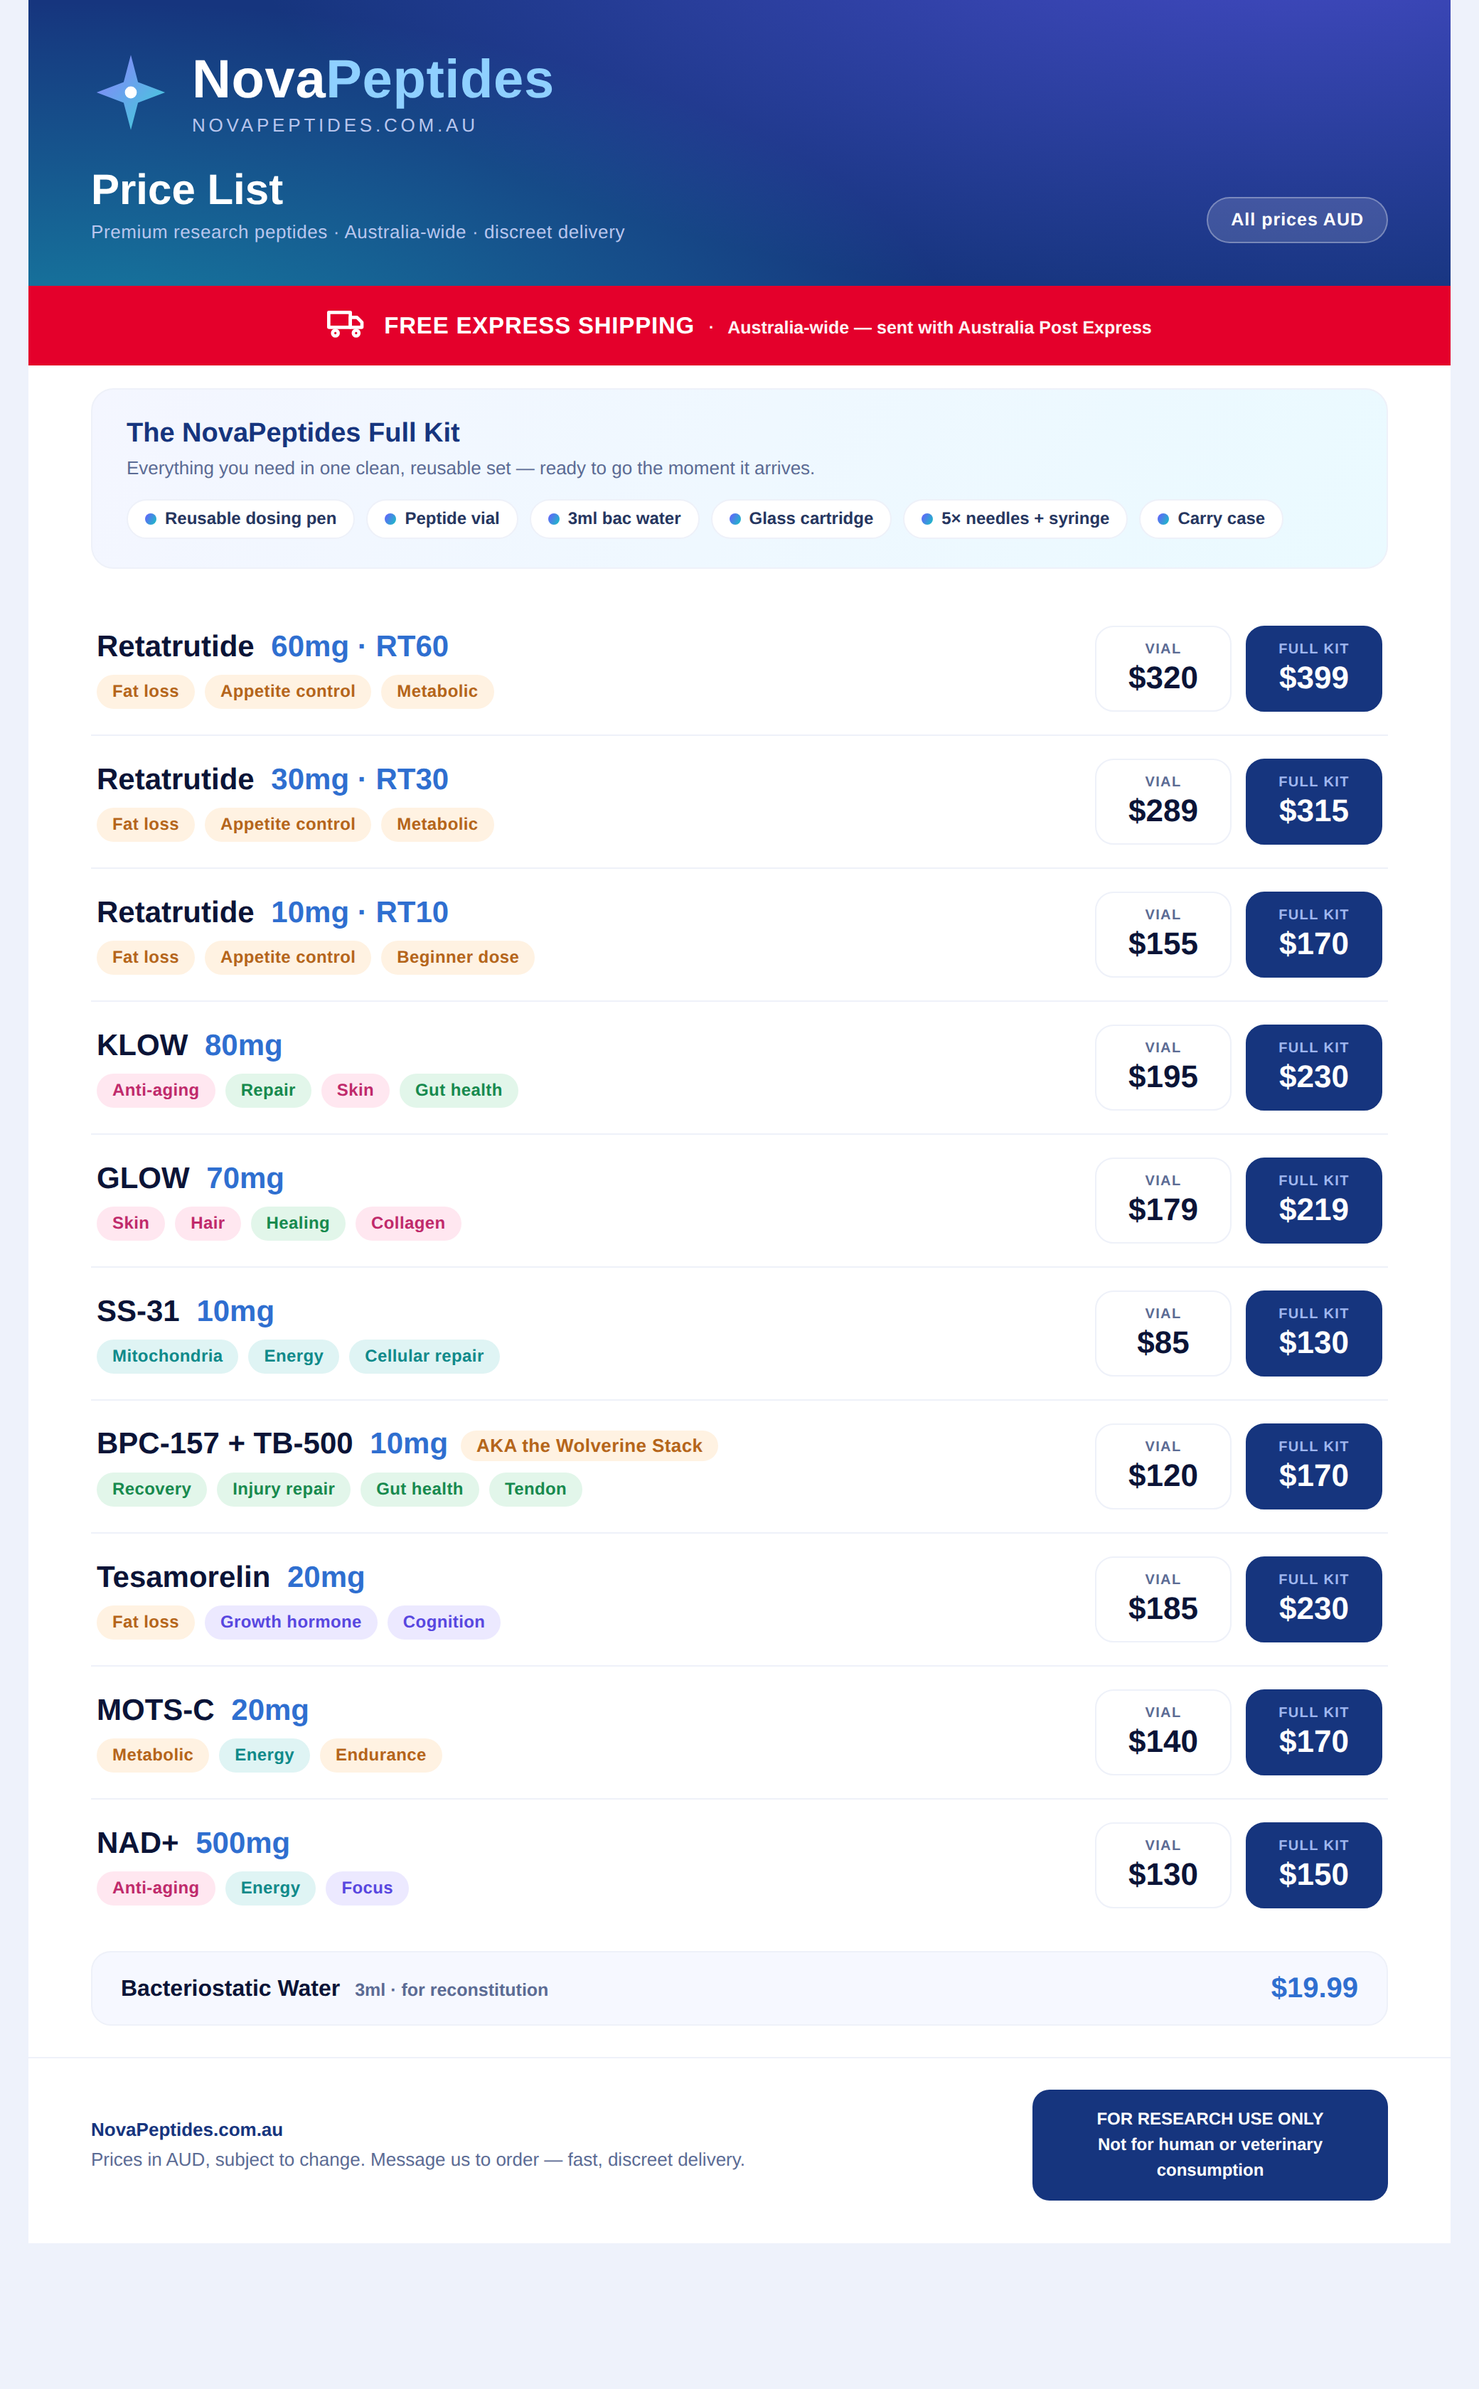
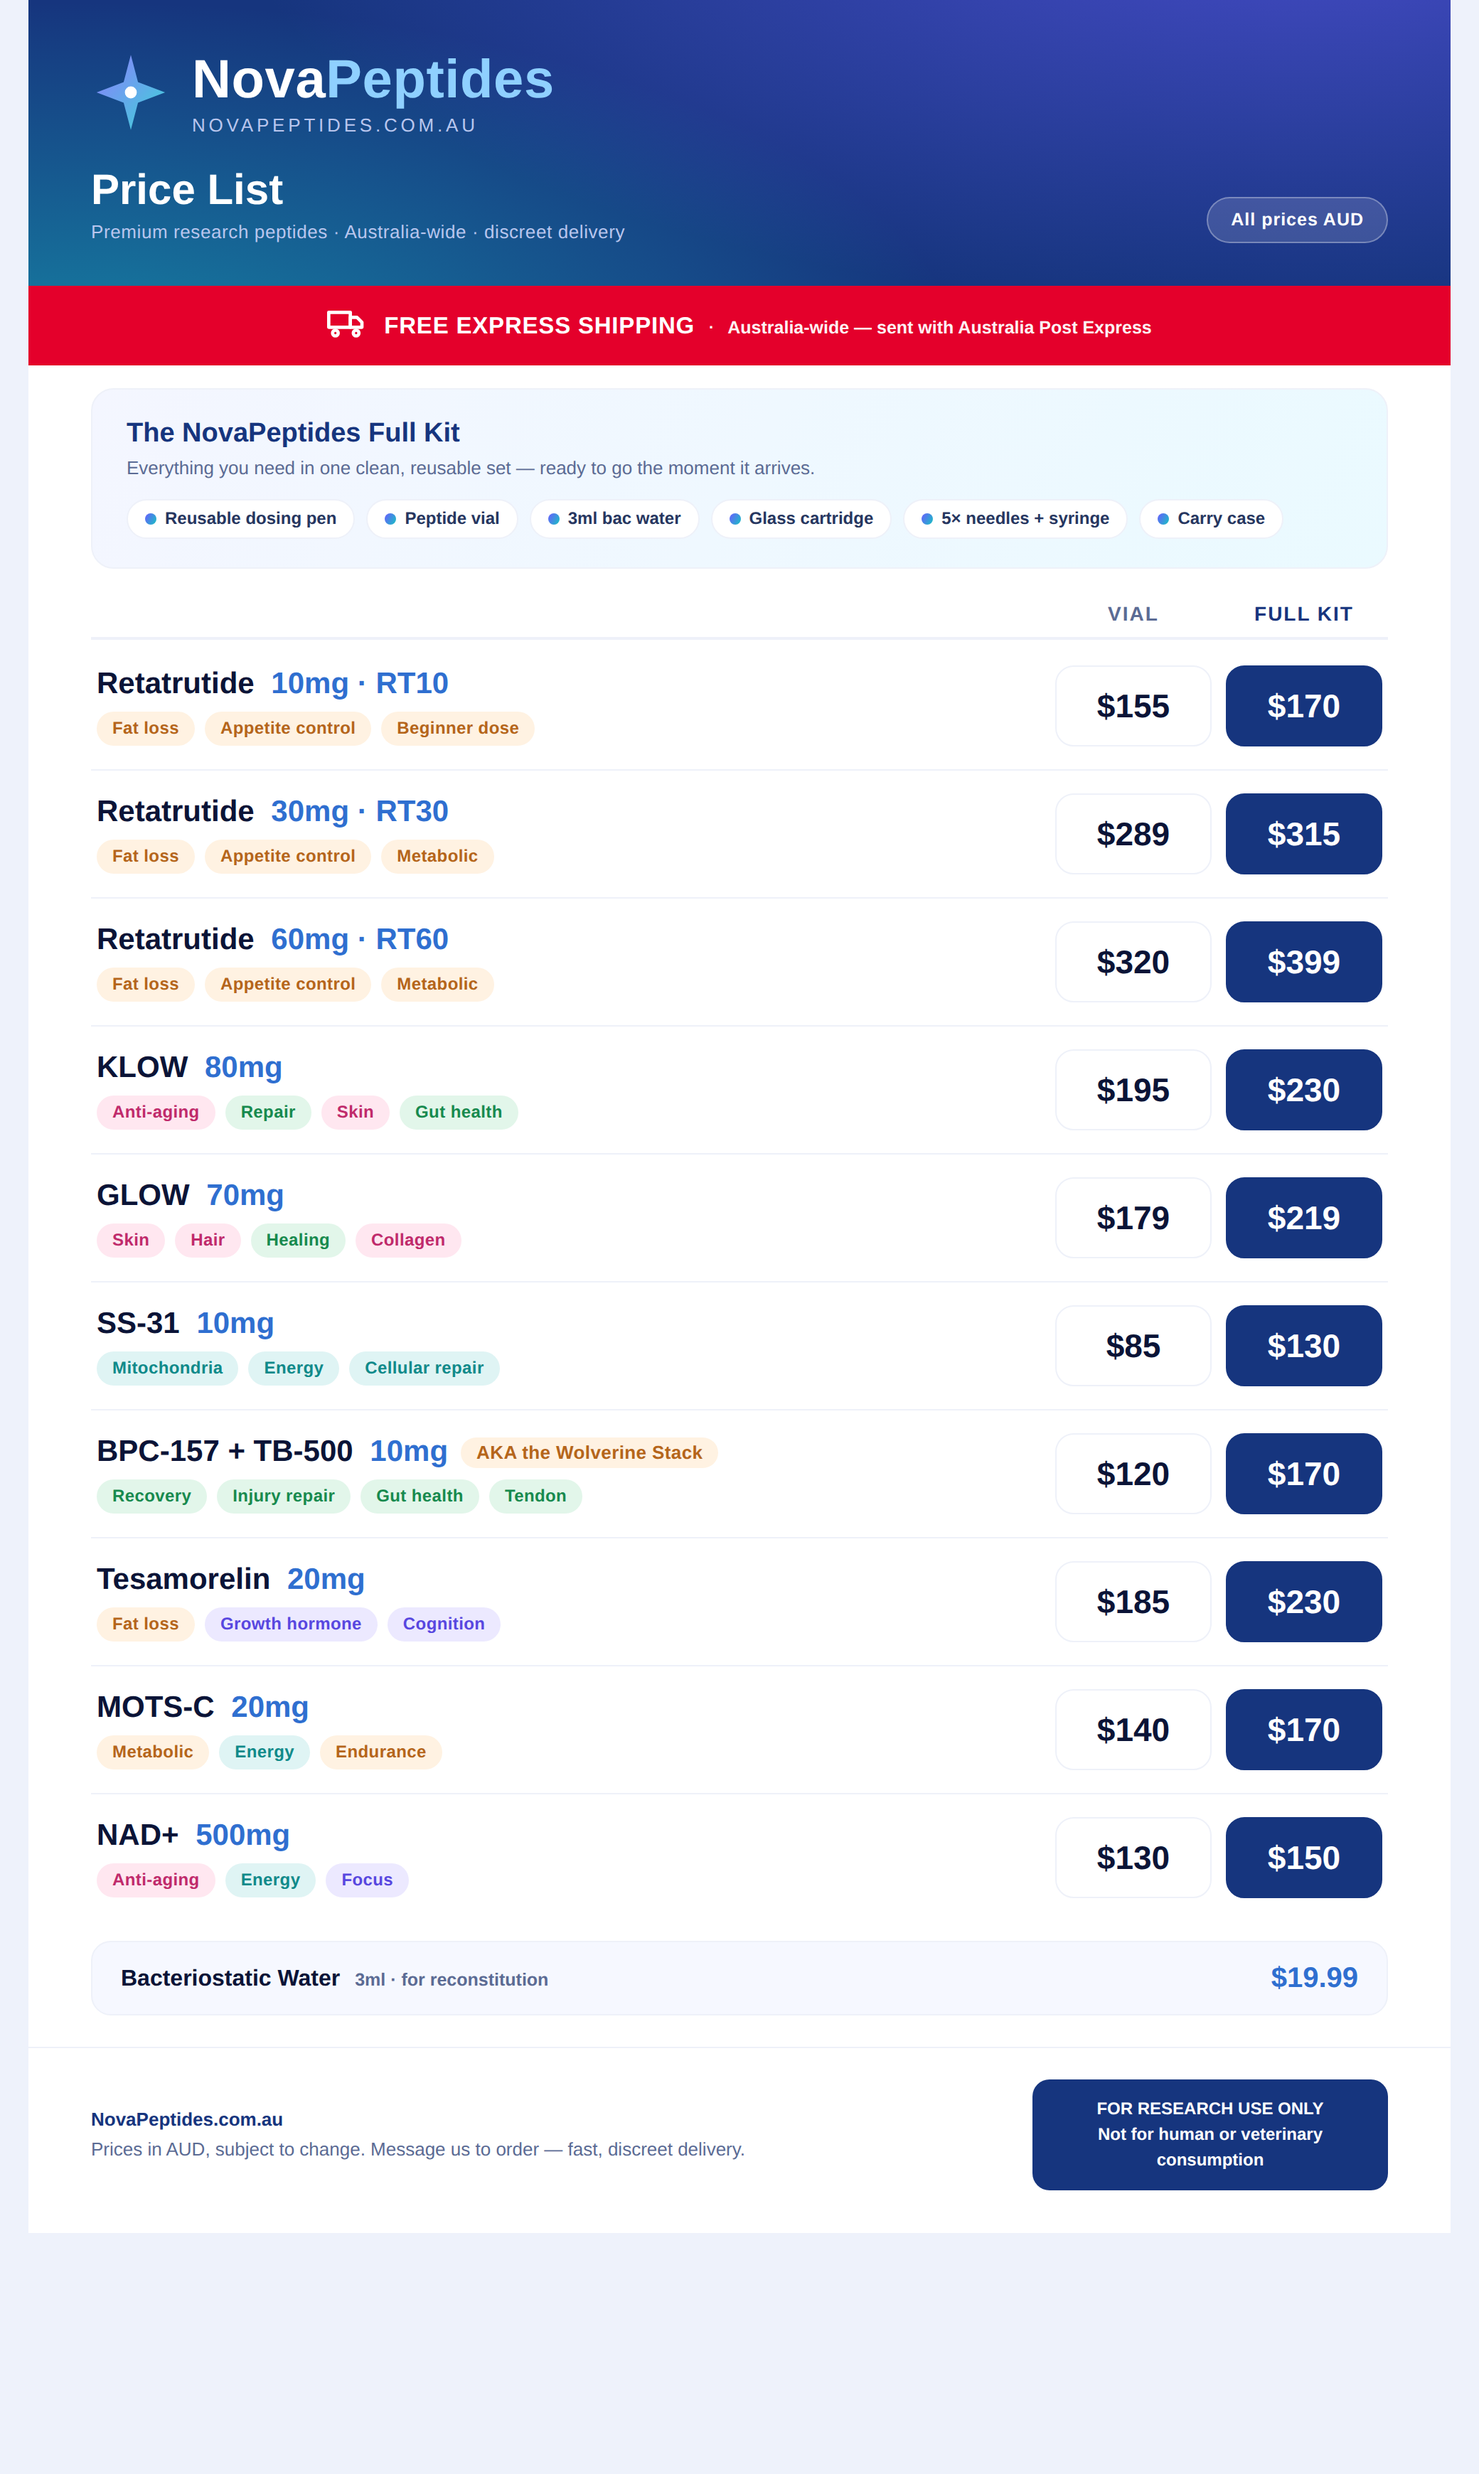
Price list: RT10-RT30-RT60 order, column headers (Vial/Full kit) at top
Reorder Retatrutide low-to-high; move vial/kit labels into clear larger column
headers aligned above the price columns; fix header class collision with kit band.

Claude-Session: https://claude.ai/code/session_011vwkpM9KQ6PKS1DsXGJwTK

diff --git a/pricing/price-list-v2.html b/pricing/price-list-v2.html
@@ -51,11 +51,14 @@
   .p-green{background:var(--greenB);color:var(--greenT)} .p-teal{background:var(--tealB);color:var(--tealT)}
   .p-ind{background:var(--indB);color:var(--indT)}
   .prices{flex:0 0 auto;display:flex;gap:10px}
-  .pbox{text-align:center;border-radius:13px;padding:10px 16px;min-width:96px;border:1px solid var(--line)}
-  .pbox .lb{font-size:10px;font-weight:800;text-transform:uppercase;letter-spacing:.7px;color:var(--mist)}
-  .pbox .pr{font-size:22px;font-weight:800;margin-top:2px;color:var(--ink)}
+  .pbox{text-align:center;border-radius:13px;padding:14px 16px;width:110px;border:1px solid var(--line)}
+  .pbox .pr{font-size:23px;font-weight:800;color:var(--ink)}
   .pbox.kit2{background:var(--navy);border-color:var(--navy)}
-  .pbox.kit2 .lb{color:#9fb6ef} .pbox.kit2 .pr{color:#fff}
+  .pbox.kit2 .pr{color:#fff}
+  .phead{display:flex;align-items:flex-end;padding:0 4px 8px;margin-bottom:2px;border-bottom:2px solid var(--line)}
+  .phead .sp{flex:1 1 auto}
+  .phead .hc{width:110px;text-align:center;font-size:14px;font-weight:800;text-transform:uppercase;letter-spacing:1px;color:var(--mist)}
+  .phead .hc.hk{color:var(--navy)}
 
   .bac{display:flex;align-items:center;justify-content:space-between;margin:6px 44px 0;background:#f6f8ff;border:1px solid var(--line);border-radius:14px;padding:14px 20px}
   .bac .n{font-size:16px;font-weight:800} .bac .n span{font-size:12.5px;color:var(--mist);font-weight:600;margin-left:6px}
@@ -99,45 +102,46 @@
     </div>
 
     <div class="list">
-      <div class="prow"><div class="pinfo"><div class="pname">Retatrutide <span class="mg">60mg &middot; RT60</span></div>
-        <div class="pills"><span class="pill2 p-amber">Fat loss</span><span class="pill2 p-amber">Appetite control</span><span class="pill2 p-amber">Metabolic</span></div></div>
-        <div class="prices"><div class="pbox"><div class="lb">Vial</div><div class="pr">$320</div></div><div class="pbox kit2"><div class="lb">Full kit</div><div class="pr">$399</div></div></div></div>
+      <div class="phead"><span class="sp"></span><div class="prices"><div class="hc">Vial</div><div class="hc hk">Full kit</div></div></div>
+      <div class="prow"><div class="pinfo"><div class="pname">Retatrutide <span class="mg">10mg &middot; RT10</span></div>
+        <div class="pills"><span class="pill2 p-amber">Fat loss</span><span class="pill2 p-amber">Appetite control</span><span class="pill2 p-amber">Beginner dose</span></div></div>
+        <div class="prices"><div class="pbox"><div class="pr">$155</div></div><div class="pbox kit2"><div class="pr">$170</div></div></div></div>
 
       <div class="prow"><div class="pinfo"><div class="pname">Retatrutide <span class="mg">30mg &middot; RT30</span></div>
         <div class="pills"><span class="pill2 p-amber">Fat loss</span><span class="pill2 p-amber">Appetite control</span><span class="pill2 p-amber">Metabolic</span></div></div>
-        <div class="prices"><div class="pbox"><div class="lb">Vial</div><div class="pr">$289</div></div><div class="pbox kit2"><div class="lb">Full kit</div><div class="pr">$315</div></div></div></div>
+        <div class="prices"><div class="pbox"><div class="pr">$289</div></div><div class="pbox kit2"><div class="pr">$315</div></div></div></div>
 
-      <div class="prow"><div class="pinfo"><div class="pname">Retatrutide <span class="mg">10mg &middot; RT10</span></div>
-        <div class="pills"><span class="pill2 p-amber">Fat loss</span><span class="pill2 p-amber">Appetite control</span><span class="pill2 p-amber">Beginner dose</span></div></div>
-        <div class="prices"><div class="pbox"><div class="lb">Vial</div><div class="pr">$155</div></div><div class="pbox kit2"><div class="lb">Full kit</div><div class="pr">$170</div></div></div></div>
+      <div class="prow"><div class="pinfo"><div class="pname">Retatrutide <span class="mg">60mg &middot; RT60</span></div>
+        <div class="pills"><span class="pill2 p-amber">Fat loss</span><span class="pill2 p-amber">Appetite control</span><span class="pill2 p-amber">Metabolic</span></div></div>
+        <div class="prices"><div class="pbox"><div class="pr">$320</div></div><div class="pbox kit2"><div class="pr">$399</div></div></div></div>
 
       <div class="prow"><div class="pinfo"><div class="pname">KLOW <span class="mg">80mg</span></div>
         <div class="pills"><span class="pill2 p-pink">Anti-aging</span><span class="pill2 p-green">Repair</span><span class="pill2 p-pink">Skin</span><span class="pill2 p-green">Gut health</span></div></div>
-        <div class="prices"><div class="pbox"><div class="lb">Vial</div><div class="pr">$195</div></div><div class="pbox kit2"><div class="lb">Full kit</div><div class="pr">$230</div></div></div></div>
+        <div class="prices"><div class="pbox"><div class="pr">$195</div></div><div class="pbox kit2"><div class="pr">$230</div></div></div></div>
 
       <div class="prow"><div class="pinfo"><div class="pname">GLOW <span class="mg">70mg</span></div>
         <div class="pills"><span class="pill2 p-pink">Skin</span><span class="pill2 p-pink">Hair</span><span class="pill2 p-green">Healing</span><span class="pill2 p-pink">Collagen</span></div></div>
-        <div class="prices"><div class="pbox"><div class="lb">Vial</div><div class="pr">$179</div></div><div class="pbox kit2"><div class="lb">Full kit</div><div class="pr">$219</div></div></div></div>
+        <div class="prices"><div class="pbox"><div class="pr">$179</div></div><div class="pbox kit2"><div class="pr">$219</div></div></div></div>
 
       <div class="prow"><div class="pinfo"><div class="pname">SS-31 <span class="mg">10mg</span></div>
         <div class="pills"><span class="pill2 p-teal">Mitochondria</span><span class="pill2 p-teal">Energy</span><span class="pill2 p-teal">Cellular repair</span></div></div>
-        <div class="prices"><div class="pbox"><div class="lb">Vial</div><div class="pr">$85</div></div><div class="pbox kit2"><div class="lb">Full kit</div><div class="pr">$130</div></div></div></div>
+        <div class="prices"><div class="pbox"><div class="pr">$85</div></div><div class="pbox kit2"><div class="pr">$130</div></div></div></div>
 
       <div class="prow"><div class="pinfo"><div class="pname">BPC-157 + TB-500 <span class="mg">10mg</span><span class="nick">AKA the Wolverine Stack</span></div>
         <div class="pills"><span class="pill2 p-green">Recovery</span><span class="pill2 p-green">Injury repair</span><span class="pill2 p-green">Gut health</span><span class="pill2 p-green">Tendon</span></div></div>
-        <div class="prices"><div class="pbox"><div class="lb">Vial</div><div class="pr">$120</div></div><div class="pbox kit2"><div class="lb">Full kit</div><div class="pr">$170</div></div></div></div>
+        <div class="prices"><div class="pbox"><div class="pr">$120</div></div><div class="pbox kit2"><div class="pr">$170</div></div></div></div>
 
       <div class="prow"><div class="pinfo"><div class="pname">Tesamorelin <span class="mg">20mg</span></div>
         <div class="pills"><span class="pill2 p-amber">Fat loss</span><span class="pill2 p-ind">Growth hormone</span><span class="pill2 p-ind">Cognition</span></div></div>
-        <div class="prices"><div class="pbox"><div class="lb">Vial</div><div class="pr">$185</div></div><div class="pbox kit2"><div class="lb">Full kit</div><div class="pr">$230</div></div></div></div>
+        <div class="prices"><div class="pbox"><div class="pr">$185</div></div><div class="pbox kit2"><div class="pr">$230</div></div></div></div>
 
       <div class="prow"><div class="pinfo"><div class="pname">MOTS-C <span class="mg">20mg</span></div>
         <div class="pills"><span class="pill2 p-amber">Metabolic</span><span class="pill2 p-teal">Energy</span><span class="pill2 p-amber">Endurance</span></div></div>
-        <div class="prices"><div class="pbox"><div class="lb">Vial</div><div class="pr">$140</div></div><div class="pbox kit2"><div class="lb">Full kit</div><div class="pr">$170</div></div></div></div>
+        <div class="prices"><div class="pbox"><div class="pr">$140</div></div><div class="pbox kit2"><div class="pr">$170</div></div></div></div>
 
       <div class="prow"><div class="pinfo"><div class="pname">NAD+ <span class="mg">500mg</span></div>
         <div class="pills"><span class="pill2 p-pink">Anti-aging</span><span class="pill2 p-teal">Energy</span><span class="pill2 p-ind">Focus</span></div></div>
-        <div class="prices"><div class="pbox"><div class="lb">Vial</div><div class="pr">$130</div></div><div class="pbox kit2"><div class="lb">Full kit</div><div class="pr">$150</div></div></div></div>
+        <div class="prices"><div class="pbox"><div class="pr">$130</div></div><div class="pbox kit2"><div class="pr">$150</div></div></div></div>
     </div>
 
     <div class="bac"><div class="n">Bacteriostatic Water <span>3ml &middot; for reconstitution</span></div><div class="pr">$19.99</div></div>
